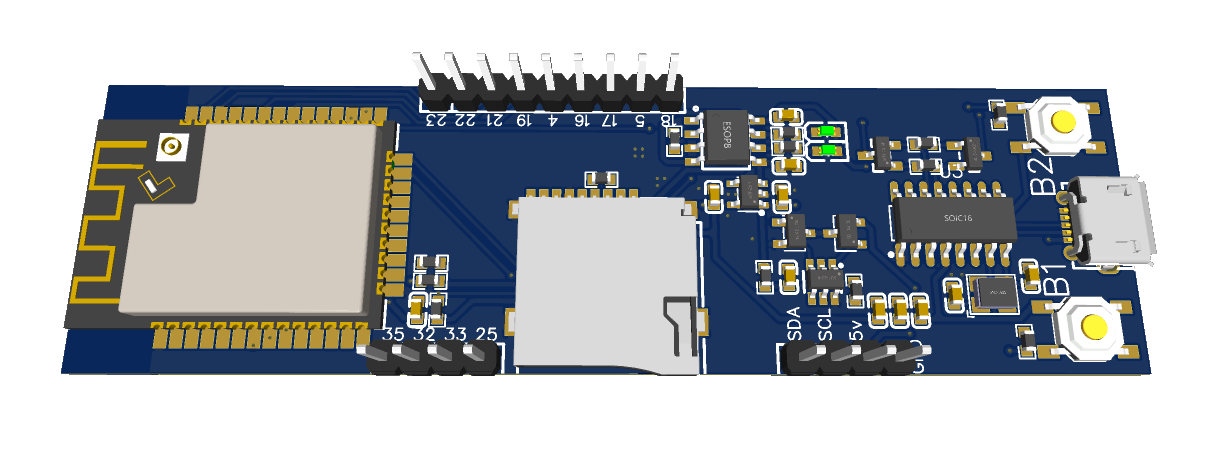
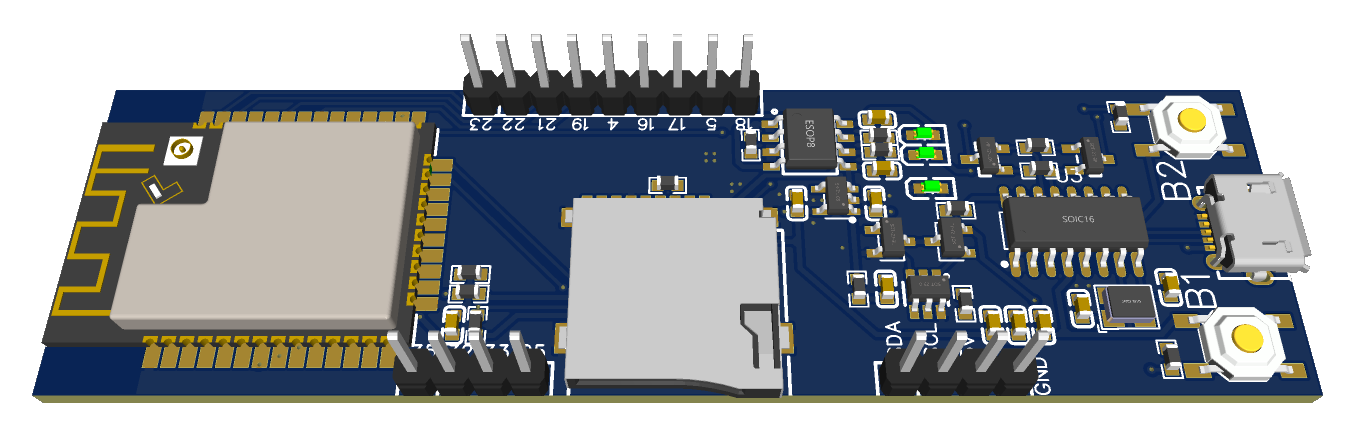
Updated the README with progress

diff --git a/README.md b/README.md
@@ -19,3 +19,17 @@ One thing to note about this board, is that the two buttons on it are **NOT** th
 ## Design Model
 
 ![Model](images/model.png)
+
+## History
+
+### v0.2
+
+After assembling a couple v0.1 boards I noticed that there was a problem near the TP4056 IC. I when I got near pin 1 (sometimes I didn't even have to touch, just move my hand near it) the board would disconnect. I realized that this was caused because I left the TEMP pin floating instead of connecting it to ground. I also realized that when powered via the battery, there was no LED to indicate that anything was powered, which made testing somewhat hard to do.
+
+In v0.2 I have added an power LED as well as connecting the TEMP pin to ground to keep the TP4056 stable.
+
+(I also fixed the schematic having the wrong revision number on it!)
+
+### v0.1
+
+This was the initial board design. It featured a MicroSD card slot as well as circuitry to manage an attached battery.
